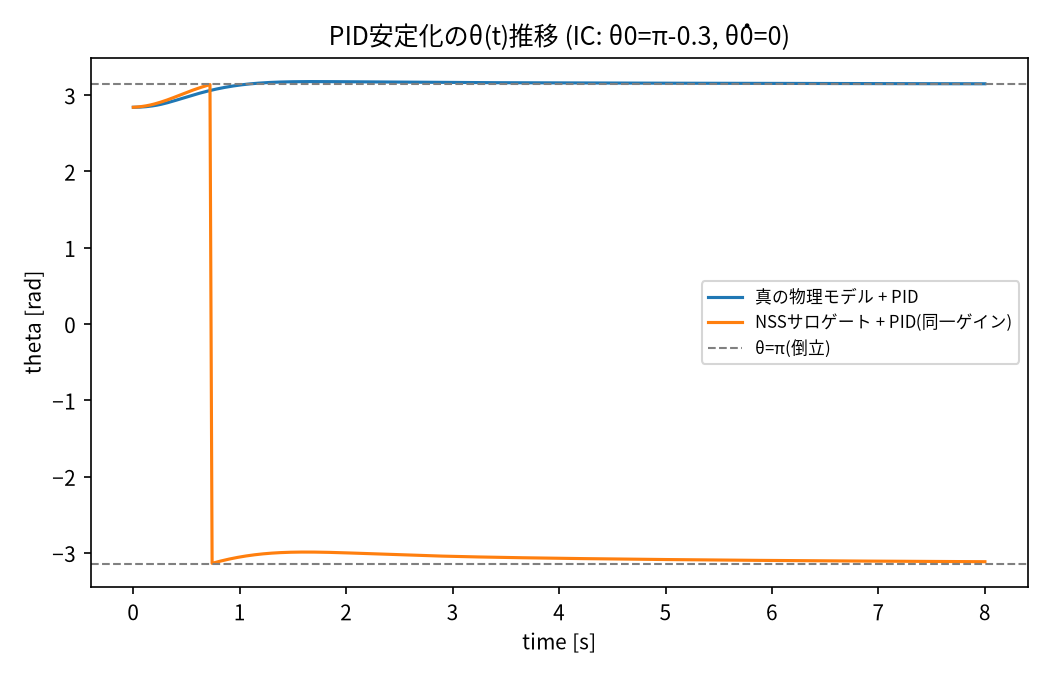
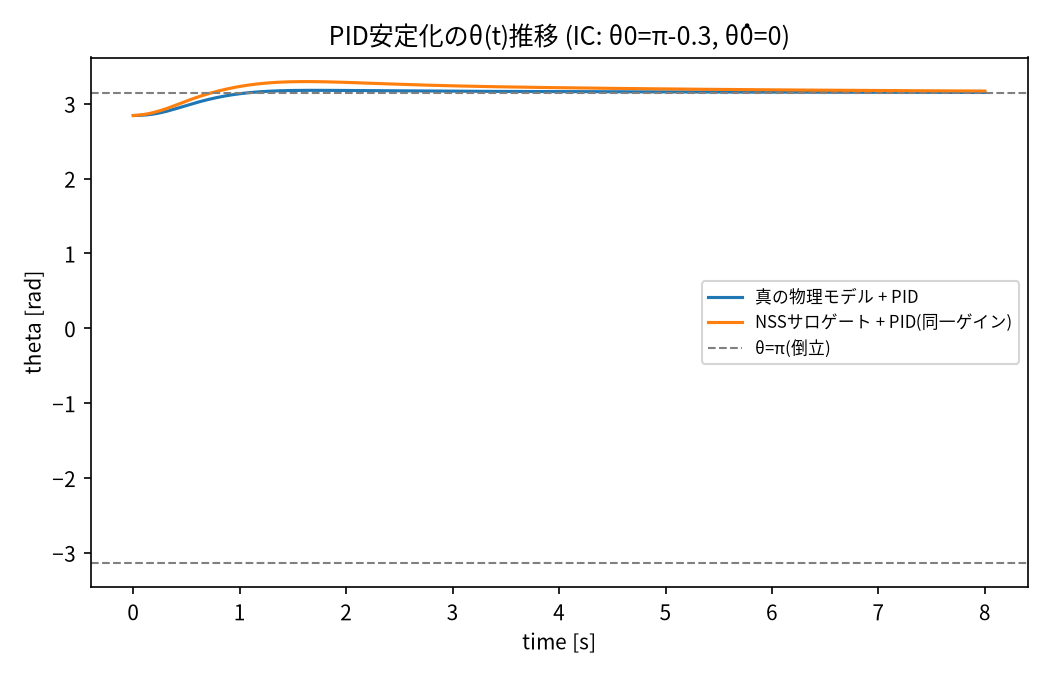
fix: M5のPIDプロットでサロゲートθのatan2ジャンプを解消 (#14)
M6 (#11) で見つけたのと同じ問題: run_pid_surrogateはNSSモデルを
実プラントとしてステップごとにatan2でthetaをデコードするため、
軌道が±πを跨ぐとプロット上で見た目上2πジャンプしていた。M6と
同様にnp.unwrapをプロット時に適用して修正。

なお、M4のMPCは実プラントを常に真の物理モデルでrk4_stepするため
(サロゲートは候補評価の予測にのみ使用)、この問題は発生しない
ことを確認した。

Refs #13

Claude-Session: https://claude.ai/code/session_01Rvrf6mcbh1UrexApn66z2b

diff --git a/src/evaluate_pid.py b/src/evaluate_pid.py
@@ -42,7 +42,19 @@ def stabilization_error(traj: np.ndarray) -> float:
     return float(np.abs(angular_error_to_inverted(traj[-WINDOW:, 0])).mean())
 
 
+def unwrap_theta(traj: np.ndarray) -> np.ndarray:
+    """NSSモデルはステップごとにatan2でthetaをデコードするため、軌道が±πを
+    跨ぐと見た目上2πジャンプする(物理的には連続な同一角度)。プロット用に
+    np.unwrapで連続な表現に直す(角速度など他の量はwrapの影響を受けないため
+    theta列だけ置き換える)。
+    """
+    unwrapped = traj.copy()
+    unwrapped[:, 0] = np.unwrap(traj[:, 0])
+    return unwrapped
+
+
 def plot_trajectory(true_traj: np.ndarray, surrogate_traj: np.ndarray) -> None:
+    surrogate_traj = unwrap_theta(surrogate_traj)
     t = np.arange(N_STEPS + 1) * DT
     plt.figure(figsize=(7, 4.5))
     plt.plot(t, true_traj[:, 0], label="真の物理モデル + PID")
@@ -60,6 +72,7 @@ def plot_trajectory(true_traj: np.ndarray, surrogate_traj: np.ndarray) -> None:
 
 
 def plot_phase_portrait(true_traj: np.ndarray, surrogate_traj: np.ndarray) -> None:
+    surrogate_traj = unwrap_theta(surrogate_traj)
     fig, axes = plt.subplots(1, 2, figsize=(12, 5))
     for ax, (label, traj) in zip(
         axes, [("真の物理モデル + PID", true_traj), ("NSSサロゲート + PID", surrogate_traj)]
